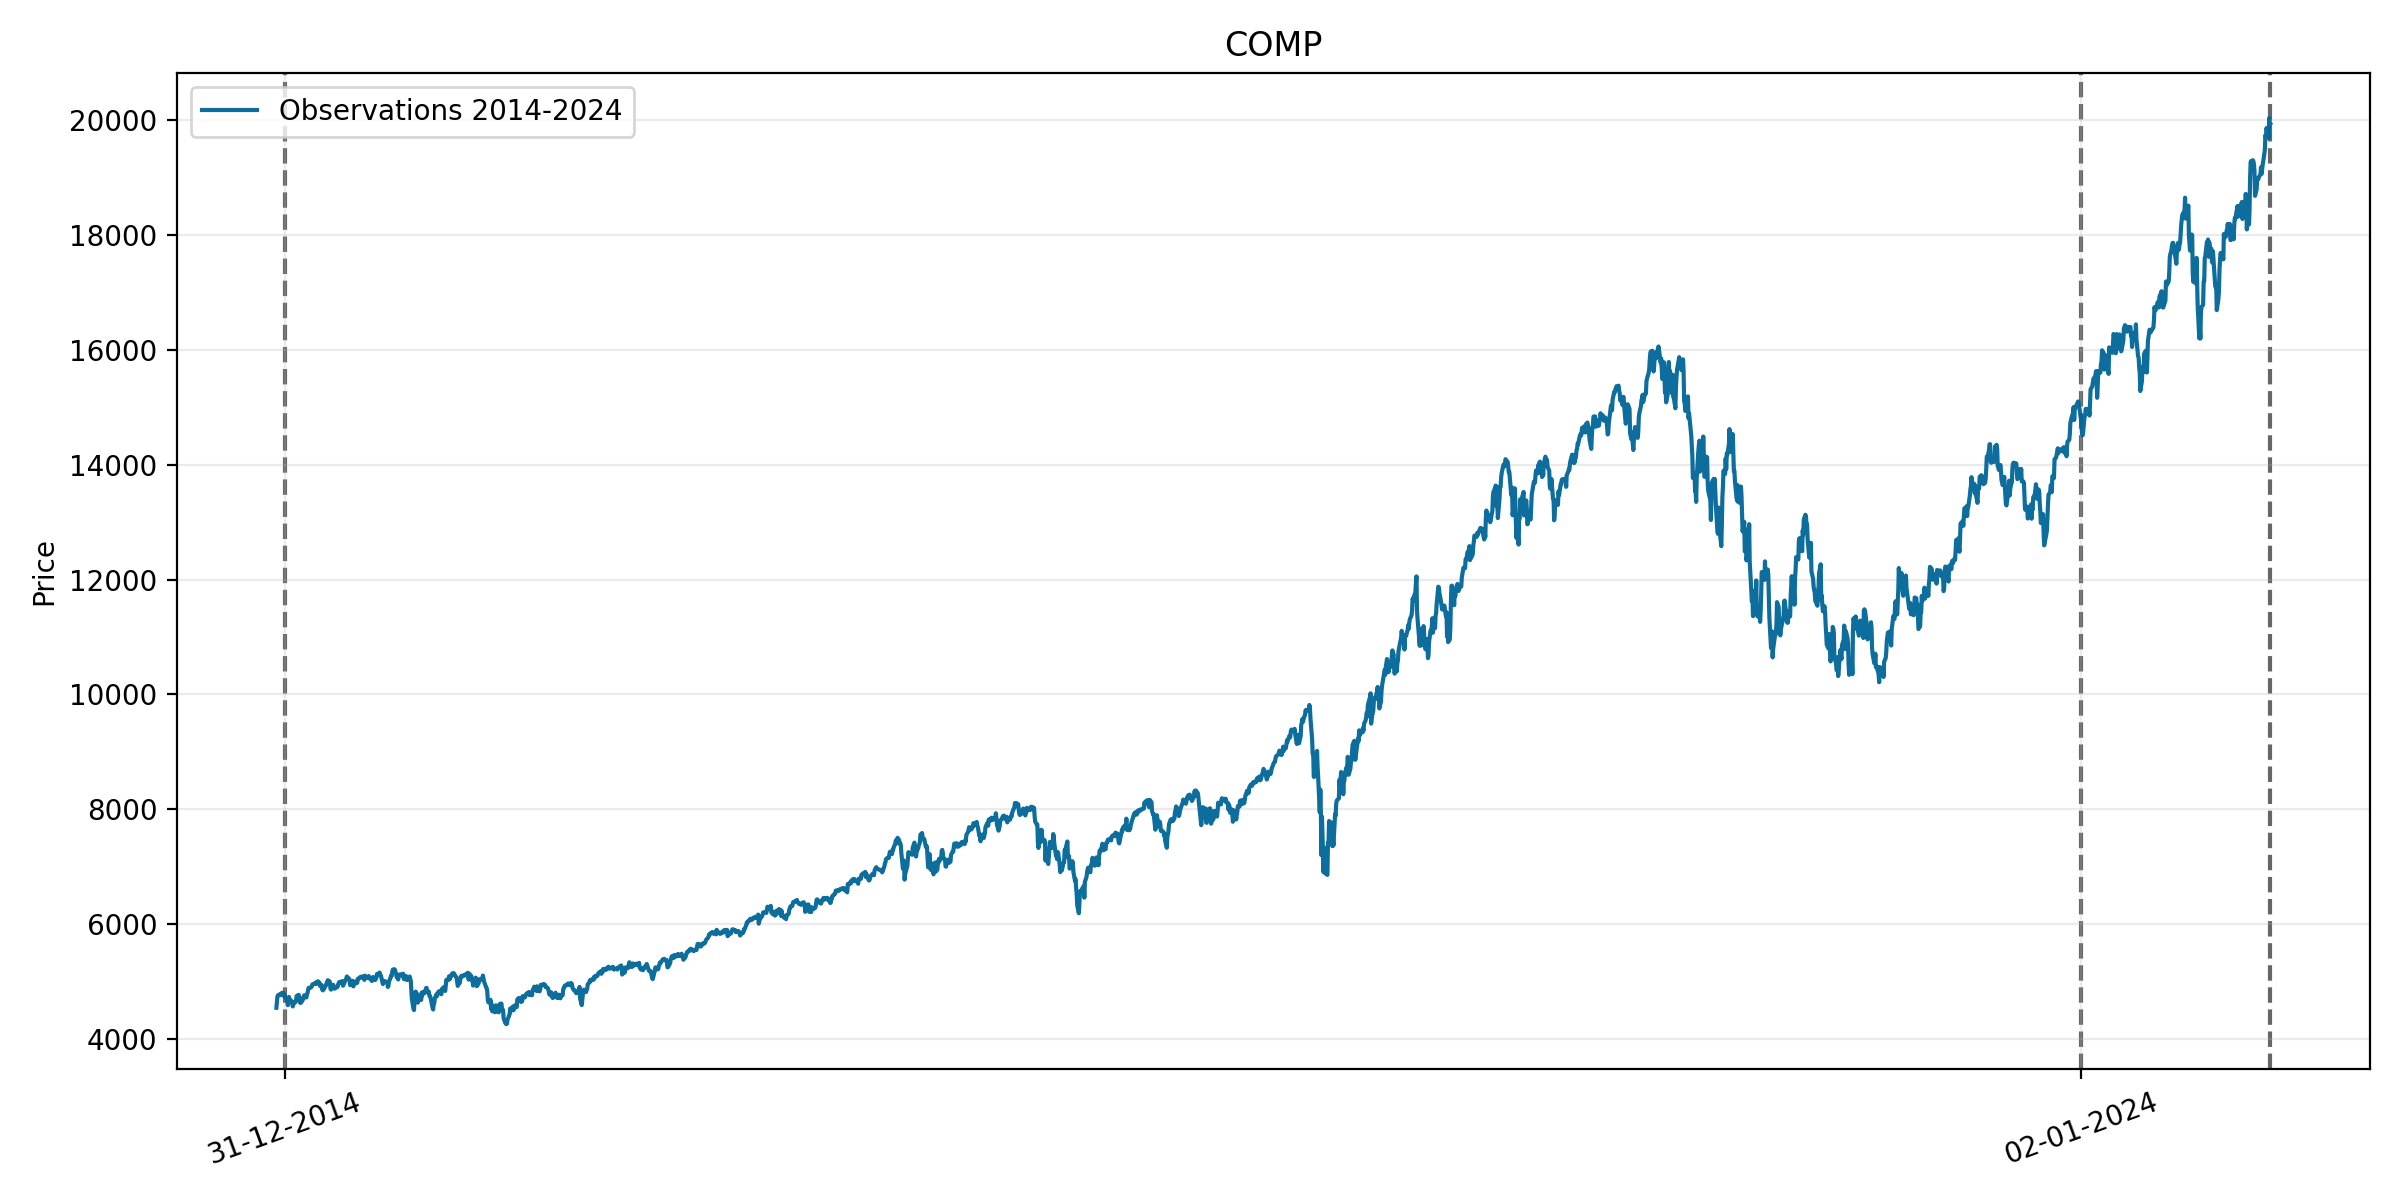
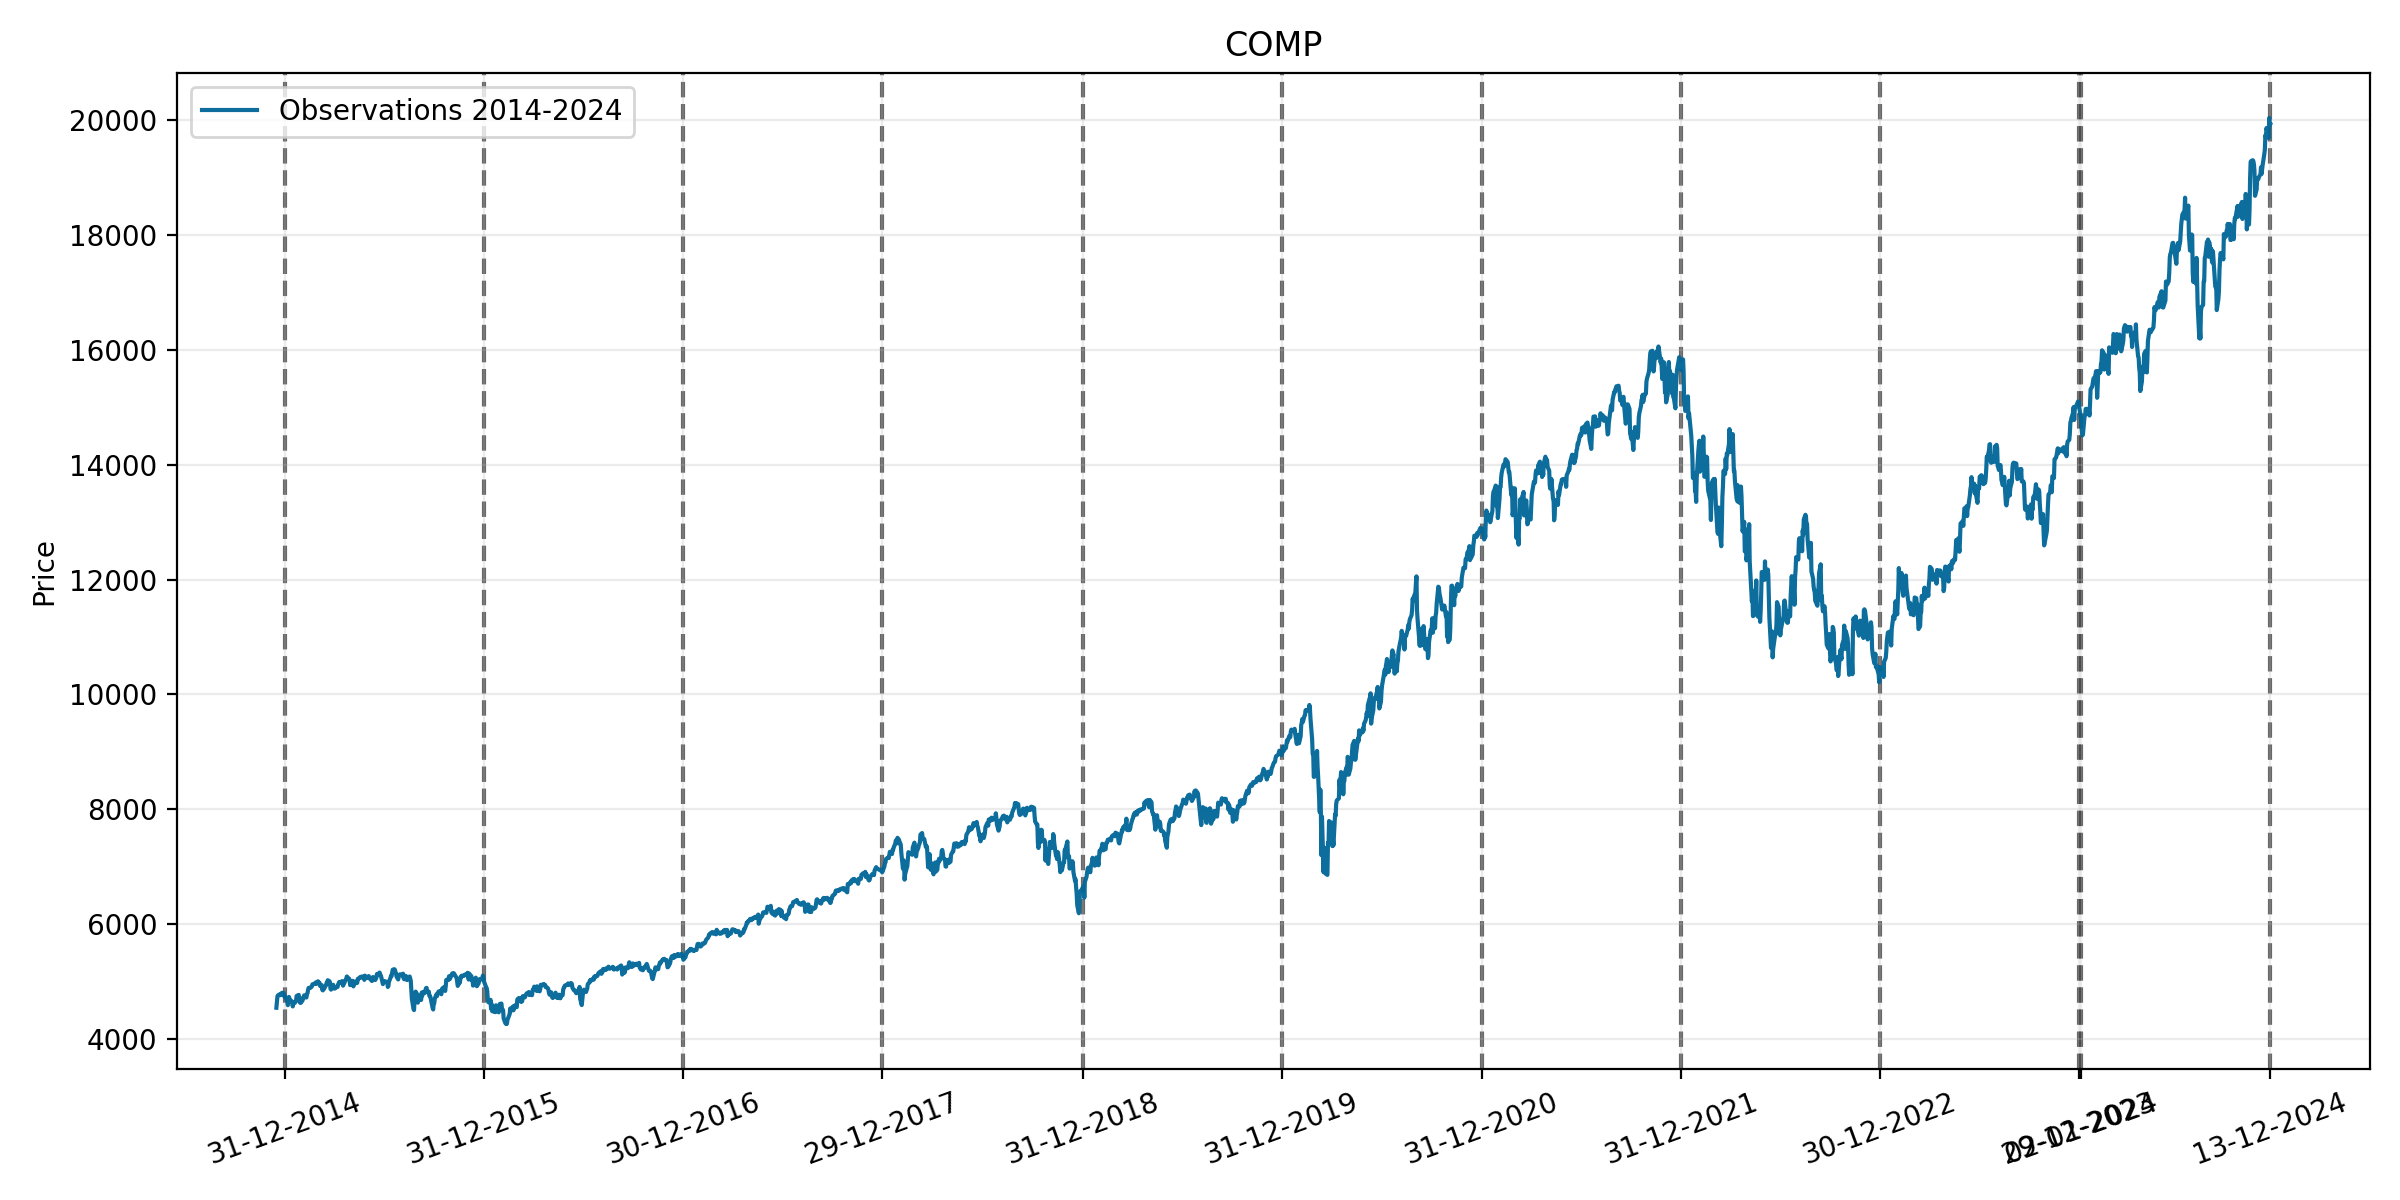
END

diff --git a/model/dataset.py b/model/dataset.py
@@ -13,12 +13,14 @@ class csv_handler:
         self.df['Norm Adj Close'] = self.add_normalized_data(self.df)
         #__import__('ipdb').set_trace()
         self.df['Quarter'] = self.add_quarters(self.df)
-        self.max_days = 256
+        self.max_days = 240
 
     def get_equal_length_prices(self, normalized=True):
-        df = self.shift_first_year_prices()
+        #__import__('ipdb').set_trace()
+        df = self.shift_first_year_prices()#! 按Day排列应该为升序,这个是升序(第一年的数据)
         for i in range(1, len(self.years)):
-            df = pd.concat([df, pd.DataFrame(self.get_year_data(year=self.years[i], normalized=normalized))], axis=1)
+            #! 注意 self.get_year_data要反转!!
+            df = pd.concat([df, pd.DataFrame(self.get_year_data(year=self.years[i], normalized=normalized)[::-1])], axis=1)
 
         df = df[:self.max_days]
 
@@ -104,14 +106,15 @@ class csv_handler:
         """
         为每一年的'Adj Close'添加归一化后的数据，并将每年的第一个数据点平移到0。
         """
+        
         # 按年份分组
         grouped = df.groupby(df['Date'].dt.year)
         # 归一化每组数据
         df['Norm Adj Close'] = grouped['Adj Close'].transform(lambda x: (x - x.mean()) / x.std())
 
-        # 将每年的第一个数据点平移到0
-        df['Norm Adj Close'] = grouped['Norm Adj Close'].transform(lambda x: x - x.iloc[0])
-
+        # 将每年的第一天数据点平移到0,由于日期降序排列，所以iloc[-1]是每年的第一天
+        df['Norm Adj Close'] = grouped['Norm Adj Close'].transform(lambda x: x - x.iloc[-1])
+        #__import__('ipdb').set_trace()
         return df['Norm Adj Close']
 
     def add_quarters(self, df):
@@ -135,13 +138,15 @@ class csv_handler:
         return self.quarters[(month - 1) // 3]
 
     def shift_first_year_prices(self):
-        prices = pd.DataFrame(self.get_year_data(self.years[0]))
+        #__import__('ipdb').set_trace()
+        prices = pd.DataFrame(self.get_year_data(self.years[0])[::-1])
         df = pd.DataFrame([0 for _ in range(self.max_days - len(prices.index))])
         df = pd.concat([df, prices], ignore_index=True)
 
         return df
 
     def fill_last_rows(self, df):
+        #均值填充NAN数据
         years = self.years[:-1]
 
         for year in years:

diff --git a/model/GaussianProcess.py b/model/GaussianProcess.py
@@ -29,7 +29,7 @@ class GPR:
     """
     def __init__(self, company_name: str):
         self.company_data = dataset.csv_handler(company_name)
-        self.prices_data = self.company_data.get_equal_length_prices()
+        self.prices_data = self.company_data.get_equal_length_prices()#升序时间顺序
         self.quarters = self.company_data.quarters
         self.years = self.company_data.years
         self.max_days = self.company_data.max_days
@@ -40,7 +40,7 @@ class GPR:
         self.kernels = []
 
         # 训练迭代次数，可以根据需求调整
-        self.iterations = 80
+        self.iterations = 20
 
     def get_eval_model(self, start_year: int, end_year: int, pred_year: int, pred_quarters: list = None):
         """
@@ -54,7 +54,9 @@ class GPR:
         # 1. 准备训练数据 X, Y
         years_quarters = list(range(start_year, end_year + 1)) + ['Quarter']
         training_years = years_quarters[:-2]
-        df_prices = self.prices_data[self.prices_data.columns.intersection(years_quarters)]
+        #__import__('ipdb').set_trace()
+        df_prices = self.prices_data[self.prices_data.columns.intersection(years_quarters)]#!升序的
+        #__import__('ipdb').set_trace()
 
         possible_days = list(df_prices.index.values)
         

diff --git a/model/viz.py b/model/viz.py
@@ -21,7 +21,7 @@ class plotter:
         self.isGpytorch = True
         self.company_name = company_name
         self.company_handler = dataset.csv_handler(company_name)
-        self.prices_data = self.company_handler.get_equal_length_prices()
+        self.prices_data = self.company_handler.get_equal_length_prices()#! 升序
         self.quarters = self.company_handler.quarters
         self.years = self.company_handler.years
         # print(self.years)

diff --git a/main.py b/main.py
@@ -6,7 +6,7 @@ from model import viz
 
 companies = ['COMP','OMHX25','NDX']
 plotters:  Dict[str, viz.plotter] = {}
-start_year = 2020
+start_year = 2014
 
 
 def main():
